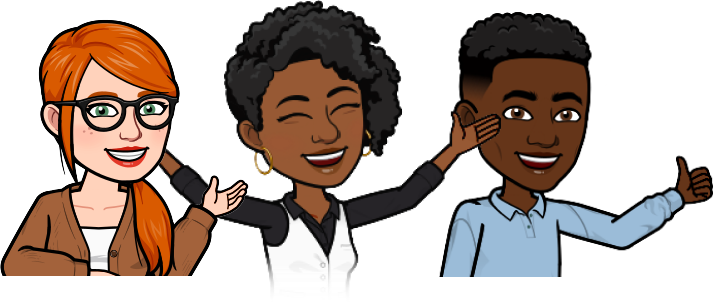
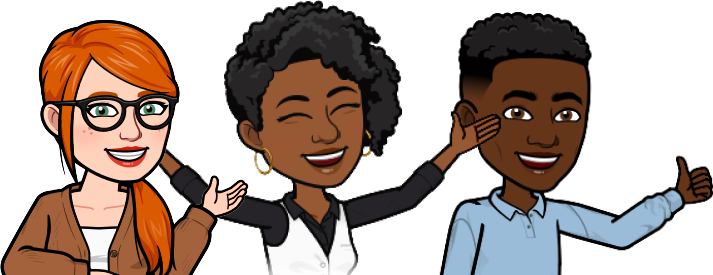
Remove special case in dialogbox

diff --git a/src/lib/components/dialog/DialogBox.svelte b/src/lib/components/dialog/DialogBox.svelte
@@ -86,11 +86,11 @@
 		{#if line.avatars.length > 1}
 			<div class="flex w-full items-end justify-between align-bottom">
 				{#each line.avatars as avatar, i}
-					<div class="mr-14 self-end">
-						<img class="relative -bottom-9 z-20 " src={avatar} alt="" />
+					<div class="mr-14 self-end avatar">
+						<img class="relative -bottom-9 z-20" src={avatar} alt=""/>
 						{#if line.speakers[i]}
 							<div
-								class="bg-peach relative -bottom-4 -right-5 z-20 h-fit w-fit rounded px-3 text-3xl text-black">
+								class="bg-peach relative -bottom-4 -right-5 z-20 h-fit w-fit rounded px-3 text-3xl text-black namebox">
 								{line.speakers[i]}
 							</div>
 						{/if}
@@ -98,41 +98,24 @@
 				{/each}
 			</div>
 		{:else if line.pos == 'right'}
-			<div class=" bg-peach relative -bottom-4 z-20 h-fit w-fit rounded px-3 text-3xl text-black">
+			<div class=" bg-peach relative -bottom-4 z-20 h-fit w-fit rounded px-3 text-3xl text-black namebox">
 				{line.speakers[0]}
 			</div>
-			<div class="mr-14 self-end">
+			<div class="mr-14 self-end avatar">
 				<img src={line.avatars[0]} alt="" />
 			</div>
 		{:else if line.pos == 'left'}
-			{#if line.id == 23}
-				<div class="mr-14 -mb-8 self-end" style="z-index: 1;">
-					<img src={line.avatars[0]} alt="" class="" />
-				</div>
-			{:else}
-				<div class="mr-14 self-end">
-					<img src={line.avatars[0]} alt="" />
-				</div>
-			{/if}
-			<div class=" bg-peach relative -bottom-4 z-20 h-fit w-fit rounded px-3 text-3xl text-black" style="z-index: 2;">
+			<div class="mr-14 self-end avatar">
+				<img src={line.avatars[0]} alt="" />
+			</div>
+			<div class=" bg-peach relative -bottom-4 z-20 h-fit w-fit rounded px-3 text-3xl text-black namebox">
 				{line.speakers[0]}
 			</div>
 		{/if}
 	</div>
 
-	<div class="bg-jet relative flex h-36 w-full items-center justify-center rounded p-4 text-white">
+	<div class="bg-jet relative flex h-36 w-full items-center justify-center rounded p-4 text-white textbox">
 		<div class="grid grid-cols-5 items-center justify-center gap-8 align-middle text-3xl w-full">
-			<!-- {#if $isAudioPlaying}
-				<button class="mr-6 rotate-180">
-					<img src="/img/svg/dialog-arrow-blue.svg" alt="" class="h-14 w-14" />
-				</button>
-				<p class="col-span-3 mt-auto w-full text-2xl leading-relaxed  ">
-					{line.dialog}
-				</p>
-				<button class="">
-					<img src="/img/svg/dialog-arrow-blue.svg" alt="" class="h-14 w-14" />
-				</button>
-			{:else} -->
 			<button class="mr-6 rotate-180 backbutton" on:click={back}>
 				<img src="/img/svg/dialog-arrow.svg" alt="" class="h-14 w-14" />
 			</button>
@@ -142,7 +125,6 @@
 			<button class="forwardbutton" on:click={forward}>
 				<img src="/img/svg/dialog-arrow.svg" alt="" class="h-14 w-14" />
 			</button>
-			<!-- {/if} -->
 		</div>
 	</div>
 </div>
@@ -170,5 +152,17 @@
 
 	.forwardbutton:active {
 		transform: scale(1.2) translateX(25px);
+	}
+
+	.avatar {
+		z-index: -1;
+	}
+
+	.textbox {
+		z-index: 1;
+	}
+
+	.namebox {
+		z-index: 2;
 	}
 </style>
